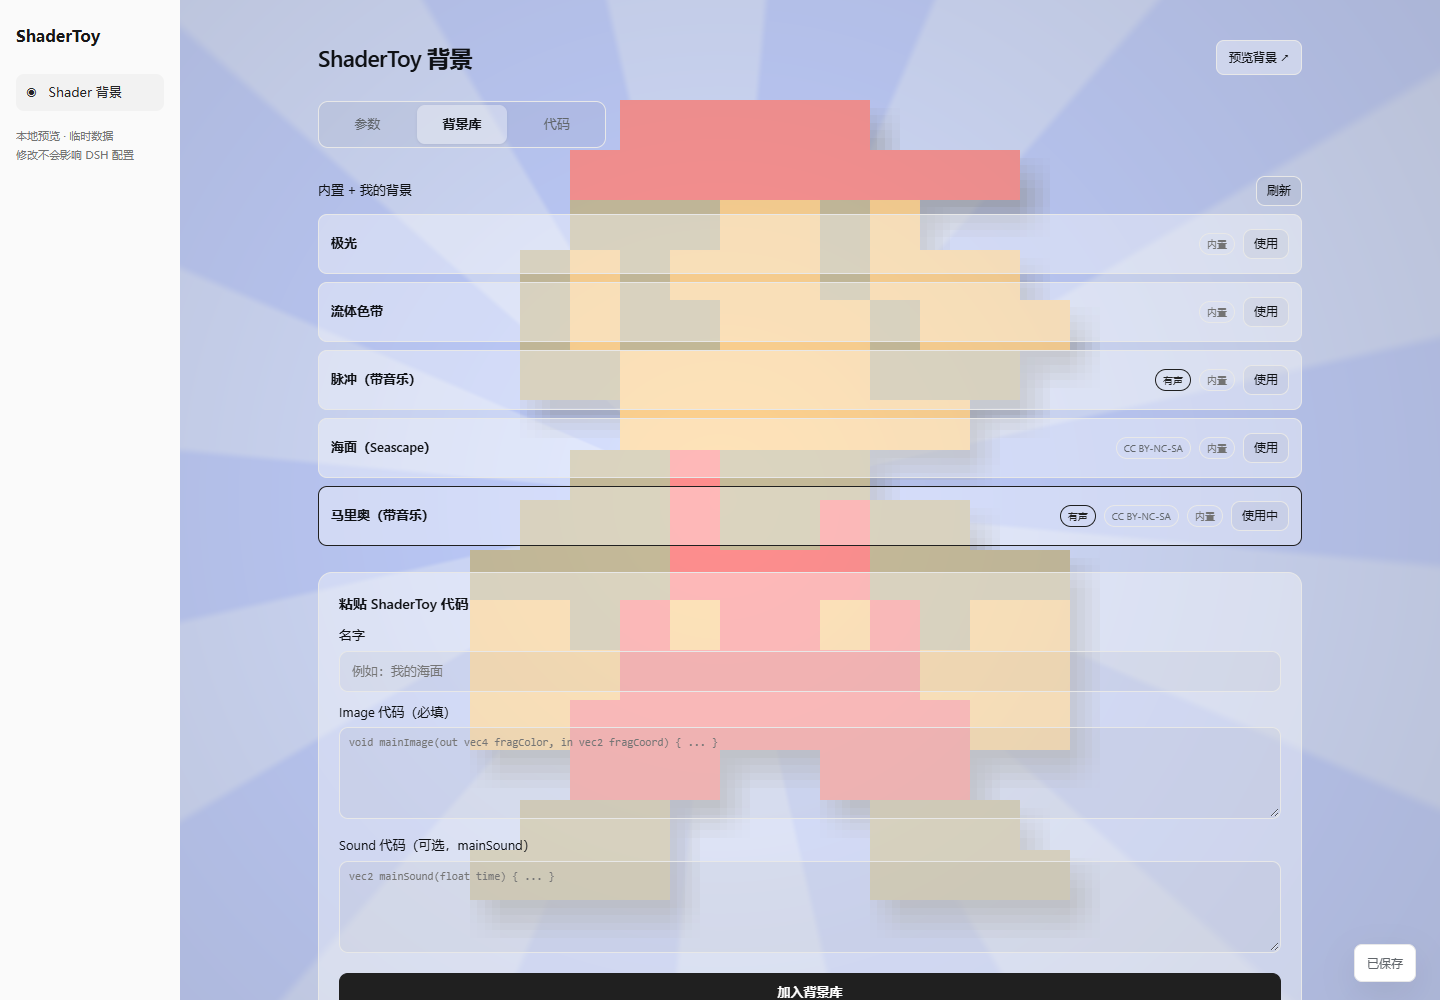
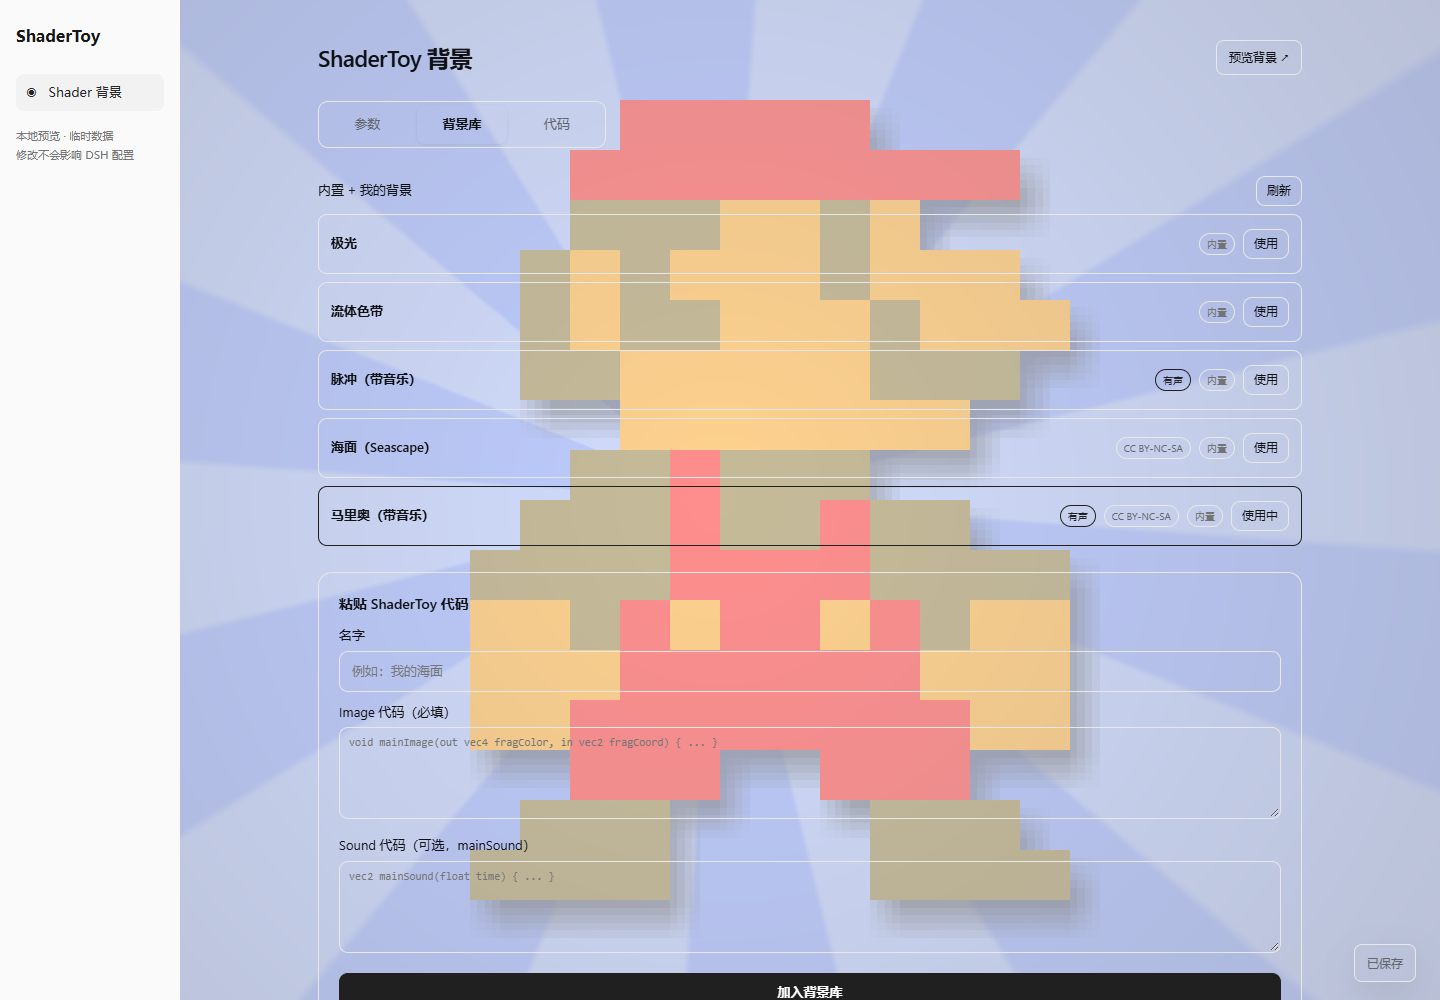
fix: make clear surfaces transparent and link half opacity to settings

diff --git a/client.js b/client.js
@@ -182,9 +182,8 @@ window.__ModuleLoader__.load({
           // So: the shell tokens go FULLY transparent (the shader is the only
           // background), and the single darkening/whitening veil is painted by the
           // player's own tint mix (`tint` + `tintMix`, see `playerLook()`), one
-          // composition layer, whatever the DOM depth. Sliding the glass slider then
-          // only sends a `params` message — it never touches the theme tokens, so it
-          // cannot emit `theme/change` or trigger a restyle storm.
+          // composition layer, whatever the DOM depth. In half mode the same
+          // slider also updates semantic surface fills; the shell stays clear.
           //
           // Deliberately NO `:has()` selectors here. Anchoring the whole `#root` with
           // `:has()` makes Chromium re-evaluate the entire tree on every panel switch;
@@ -197,6 +196,34 @@ window.__ModuleLoader__.load({
           const GLASS_CSS = `html, body { background: transparent !important; }
             [role="dialog"], [role="alertdialog"], [data-shortcut-modal="settings"] {
               background-color: var(--shader-skin-dialog-surface) !important;
+            }
+            /* These component-local fills shadow inherited theme tokens. Keep
+               the outer card's fill, but never stack a second fill in its head. */
+            html[data-shader-skin-panels] [class*="_card"] {
+              --changes-fill: transparent !important;
+              --changes-hover: transparent !important;
+              --plan-card-fill: var(--shader-skin-surface) !important;
+              --plan-card-hover: var(--shader-skin-surface) !important;
+            }
+            html[data-shader-skin-panels] [class*="_root"] {
+              --deliverable-fill: var(--shader-skin-surface) !important;
+              --deliverable-hover: var(--shader-skin-surface) !important;
+            }
+            /* Stable DSH Markdown attributes cover plain, highlighted and card
+               code blocks. Only the wrapper paints, including its sticky head. */
+            html[data-shader-skin-panels] .md-code-block {
+              background: var(--shader-skin-surface) !important;
+              --dsl-code-block-background: transparent !important;
+              --dsl-code-block-banner-background-color: transparent !important;
+            }
+            html[data-shader-skin-panels] .md-code-block [data-code-block-banner],
+            html[data-shader-skin-panels] .md-code-block [data-code-block-content],
+            html[data-shader-skin-panels] .md-code-block pre {
+              background: transparent !important;
+            }
+            /* macOS hardcodes this button's fill instead of using the token. */
+            html[data-shader-skin-panels] button[class*="_newSession"] {
+              background: var(--shader-skin-surface) !important;
             }`
           const CLEAR_TOKENS = {
             '--dsw-alias-bg-base': { light: 'transparent', dark: 'transparent' },
@@ -204,9 +231,7 @@ window.__ModuleLoader__.load({
             '--shader-skin-dialog-surface': { light: '#fff', dark: '#232324' },
           }
           // The boxes that follow the `panels` level: cards, nested panels, code
-          // blocks, the composer/editor surface (`bg-module-platform`) and the
-          // message input (`specific-input-major`). Popovers/menus get a higher
-          // alpha below so they stay readable.
+          // blocks and the composer/editor surface (`bg-module-platform`).
           const LAYER_TOKENS = [
             '--dsw-alias-bg-layer-1', '--dsw-alias-bg-layer-2',
             '--dsw-alias-bg-layer-3', '--dsw-alias-bg-layer-4',
@@ -215,22 +240,23 @@ window.__ModuleLoader__.load({
           const RAISED_TOKENS = [
             '--dsw-alias-bg-overlay', '--dsw-specific-menu', '--dsw-menu-surface-fill',
             '--dsw-alias-menu-group-header-fill', '--dsw-specific-selector',
+            '--dsw-specific-input-major',
+            '--dsw-alias-button-elevated-fill', '--dsw-alias-button-elevated-hover',
+            '--dsw-alias-button-floating-fill', '--dsw-alias-button-floating-hover',
           ]
           /**
            * Semantic content surfaces only. Never override a static palette:
            * the same neutral value may also be used for foreground text/icons.
-           * Each entry is [token, weight] relative to the selected card alpha.
+           * Every surface shares the selected opacity, without hidden floors.
            */
           const CONTENT_TOKENS = [
-            ['--dsw-alias-markdown-code-block', 1],
-            ['--dsw-alias-markdown-code-block-banner', 1],
-            ['--dsw-alias-markdown-inline-code', 0.7],
-            ['--dsw-specific-bubble', 1],
+            '--dsw-alias-markdown-code-block',
+            '--dsw-alias-markdown-code-block-banner',
+            '--dsw-alias-markdown-inline-code',
+            '--dsw-specific-bubble',
           ]
 
           /** `panels` = opaque (leave theme fills) | half | clear. */
-          const PANEL_ALPHA = { half: 0.72, clear: 0.38 }
-
           function ensureGlassStyle() {
             if (document.getElementById(STYLE_ID)) return
             const style = document.createElement('style')
@@ -245,23 +271,11 @@ window.__ModuleLoader__.load({
 
           function glassTokens() {
             const tokens = { ...CLEAR_TOKENS }
-            const selected = PANEL_ALPHA[effective().panels] ?? null
-            if (selected === null) return tokens
-            // Keep primary text readable even with the veil at 20% and a solid
-            // white/black shader. Low glass levels need a stronger card surface.
-            const glass = clamp(effective().glass, 20, 95, 60) / 100
-            const darkestLight = 255 * glass * 0.92
-            const brightestDark = 255 * (1 - glass) + 21 * glass
-            const darkFloor = Math.max(0, (brightestDark - 110) / Math.max(1, brightestDark - 35))
-            const lightFloor = Math.max(0, (140 - darkestLight) / Math.max(1, 255 - darkestLight))
-            const alpha = Math.min(0.96, Math.max(selected, darkFloor, lightFloor))
-            for (const token of LAYER_TOKENS) tokens[token] = rgba('35, 35, 36', alpha)
-            for (const token of RAISED_TOKENS) tokens[token] = rgba('44, 44, 46', 0.97)
-            tokens['--dsw-specific-input-major'] = rgba('44, 44, 46', Math.max(0.85, alpha))
-            for (const [token, weight] of CONTENT_TOKENS) {
-              const floor = token.includes('code-block') ? 0.84 : 0.38
-              tokens[token] = rgba('35, 35, 36', Math.max(floor, alpha * weight))
-            }
+            const params = effective()
+            if (!['half', 'clear'].includes(params.panels)) return tokens
+            const alpha = params.panels === 'clear' ? 0 : clamp(params.glass, 20, 95, 60) / 100
+            for (const token of [...LAYER_TOKENS, ...RAISED_TOKENS, ...CONTENT_TOKENS,
+              '--shader-skin-surface', '--shader-skin-dialog-surface']) tokens[token] = rgba('35, 35, 36', alpha)
             return tokens
           }
 
@@ -281,6 +295,9 @@ window.__ModuleLoader__.load({
           function applyGlass(force = false) {
             if (!booted) return false
             if (effective().enabled === false) { clearGlass(); return false }
+            const mode = effective().panels
+            if (['half', 'clear'].includes(mode)) document.documentElement.dataset.shaderSkinPanels = mode
+            else delete document.documentElement.dataset.shaderSkinPanels
             const theme = service('theme')
             if (theme === undefined) return false
             const tokens = glassTokens()
@@ -300,6 +317,7 @@ window.__ModuleLoader__.load({
             glassDispose = null
             glassSignature = null
             document.getElementById(STYLE_ID)?.remove()
+            delete document.documentElement.dataset.shaderSkinPanels
           }
 
           // ------------------------------------------------------------ parameters

diff --git a/native-dist/panel.html b/native-dist/panel.html
@@ -51,15 +51,14 @@
     --card-fill: rgba(255, 255, 255, var(--panel-alpha));
     --editor-fill: transparent;
     --focus-fill: var(--card-fill);
-    --control-fill: rgba(0, 0, 0, .035);
-    --control-hover-fill: rgba(0, 0, 0, .075);
-    --action-fill: rgba(255, 255, 255, var(--action-alpha));
+    --control-fill: transparent;
+    --control-hover-fill: transparent;
+    --action-fill: var(--card-fill);
+    --pop: rgba(255, 255, 255, var(--panel-alpha));
   }
   html[data-theme="dark"][data-panels="half"], html[data-theme="dark"][data-panels="clear"] {
     --card-fill: rgba(35, 35, 36, var(--panel-alpha));
-    --control-fill: rgba(0, 0, 0, .12);
-    --control-hover-fill: rgba(255, 255, 255, .08);
-    --action-fill: rgba(35, 35, 36, var(--action-alpha));
+    --pop: rgba(35, 35, 36, var(--panel-alpha));
   }
   * { box-sizing: border-box; }
   html, body { margin: 0; padding: 0; background: transparent; overflow: hidden; }
@@ -214,6 +213,7 @@
   body.editor-focus #panel > :not(#view-code),
   body.editor-focus #view-code > :not(.focused),
   body.editor-focus #note { visibility: hidden; }
+  body.editor-focus .panel { background: transparent; border-color: transparent; box-shadow: none; }
   .code-card.focused { position: fixed; inset: 12px; z-index: 100; margin: 0; display: flex; flex-direction: column; background: var(--focus-fill); box-shadow: var(--shadow); }
   .code-card.focused .code-frame { flex: 1; min-height: 0; }
   .code-card.focused .code-area { height: 100% !important; min-height: 0; }
@@ -332,7 +332,7 @@
   .settings-footer { margin-top: 20px; display: flex; gap: 16px; align-items: center; justify-content: space-between; flex-wrap: wrap; }
   .settings-footer .actions { margin: 0; }
   .settings-footer .note { margin: 0; }
-  #note { position: fixed; right: 24px; bottom: 18px; z-index: 60; max-width: min(480px, calc(100vw - 40px)); margin: 0; padding: 8px 12px; border: 1px solid var(--line); border-radius: 8px; color: var(--muted); background: var(--surface); box-shadow: var(--shadow); }
+  #note { position: fixed; right: 24px; bottom: 18px; z-index: 60; max-width: min(480px, calc(100vw - 40px)); margin: 0; padding: 8px 12px; border: 1px solid var(--line); border-radius: 8px; color: var(--muted); background: var(--card-fill); box-shadow: var(--shadow); }
   #note:empty { display: none; }
   #note.error { color: var(--danger); }
   .item { padding: 14px 12px; margin-bottom: 8px; border: 1px solid var(--line); background: var(--card-fill); flex-wrap: wrap; }
@@ -388,7 +388,7 @@
     </div>
 
     <div class="row">
-      <div class="head"><label for="glass">玻璃不透明度</label><output id="glass-out"></output></div>
+      <div class="head"><label for="glass">界面不透明度</label><output id="glass-out"></output></div>
       <input type="range" id="glass" min="20" max="95" step="1">
     </div>
 
@@ -909,17 +909,9 @@
   function syncPanelSurfaces(p) {
     const root = document.documentElement
     root.dataset.panels = p.enabled !== false && ['half', 'clear'].includes(p.panels) ? p.panels : 'opaque'
-    // Match client.js glassTokens(): a minimum fill protects text on extreme
-    // shaders when the global veil is low, in both DSH themes.
-    const selected = p.panels === 'half' ? 0.72 : 0.38
-    const glass = clamp(p.glass, 20, 95, 60) / 100
-    const darkestLight = 255 * glass * 0.92
-    const brightestDark = 255 * (1 - glass) + 21 * glass
-    const darkFloor = Math.max(0, (brightestDark - 110) / Math.max(1, brightestDark - 35))
-    const lightFloor = Math.max(0, (140 - darkestLight) / Math.max(1, 255 - darkestLight))
-    const alpha = Math.min(0.96, Math.max(selected, darkFloor, lightFloor))
+    // Match client.js glassTokens(): clear is zero fill, half follows the slider.
+    const alpha = p.panels === 'clear' ? 0 : clamp(p.glass, 20, 95, 60) / 100
     root.style.setProperty('--panel-alpha', String(alpha))
-    root.style.setProperty('--action-alpha', String(Math.max(0.85, alpha)))
     applyTheme()
   }
 

diff --git a/docs/full-audit-2026-10-27.md b/docs/full-audit-2026-10-27.md
@@ -13,12 +13,12 @@
 | 表面 | 半透明 / 透明档的策略 |
 |---|---|
 | 主界面外壳 | 背景与遮罩合成一次，避免多层遮罩把画面压黑 |
-| 普通卡片 | 基础不透明度分别为 72% / 38%；低遮罩时根据最亮/最暗背景提高安全下限 |
-| 聊天输入框 | 至少 85% 不透明 |
-| Markdown 代码块 | 至少 84% 不透明 |
-| 菜单、选择器、分组菜单头 | 97% 不透明，保留清楚的文字与边界 |
-| 设置、确认等关键对话框 | 100% 不透明；实机发现 98% 仍有背后文字重影后进一步调整 |
-| 插件自身设置页、背景库、代码工作区与专注编辑 | 跟随不透明 / 半透明 / 透明选择；沿用普通卡片的安全下限，代码框内部不重复叠加底色，底部操作栏至少 85% 不透明 |
+| 普通卡片、交付物、计划卡片 | 半透明为 `glass / 100`；透明为 0，取消此前的最低底色 |
+| 新会话按钮、聊天输入框 | 同一不透明度，不再保留纯白或 85% 底色 |
+| Markdown 代码块 | 外框使用同一不透明度；顶部栏、正文和高亮 `pre` 清除重复底色，避免叠加 |
+| 行内代码、消息气泡 | 同一不透明度，保留前景颜色与边框 |
+| 菜单、选择器、对话框 | 同一不透明度，移除固定 97% / 100% 底色 |
+| 插件自身设置页、背景库、代码工作区与专注编辑 | 同一不透明度；内部字段不重复叠加，操作栏也跟随当前档位；专注时隐藏后方界面文字 |
 
 只覆盖语义背景 token，不再覆盖静态中性色板。静态色板也会被原生文字、图标使用，全局改写它可能把前景文字一起变透明。原生遮罩与语义颜色保持各自职责。
 
@@ -33,7 +33,7 @@
 | P1 | 全局改写静态中性色，可能影响前景文字/图标 | 删除静态色板覆盖，仅修改语义表面 |
 | P2 | 背景关闭后启动/调参仍可能重新透明化原生界面 | 关闭状态统一清除样式与 token；后续调参也不重加 |
 | P2 | 深浅模式切换时播放器保留上一主题遮罩 | 主题变化同步发送当前主题的实际 tint 参数；验证 GPU uniform |
-| P2 | 透明档的菜单底色过淡、浅色对话框透出背后代码 | 菜单提高到 97%；关键对话框完全不透明 |
+| P2 | 透明档仍有较高底色，新会话按钮与代码块顶部栏未统一 | 按最新要求取消各类最低底色，透明为 0，半透明跟随滑块；只在代码块外框绘制一次底色 |
 | P2 | 未保存代码只在内存中，刷新会丢失 | 当前浏览会话用 sessionStorage 恢复草稿，显式放弃时清除 |
 | P2 | 保存代码期间切换作品，迟到结果可能作用于错误作品 | 保存结果检查当前作品与已加载编辑对象，避免错误应用 |
 | P2 | 自有 JSON 的 Sound 字段、Image/Sound 混合 GLSL 导入时丢音频 | 两种格式均保留声音；错误 Sound 不再静默丢弃 |
@@ -64,11 +64,19 @@
 
 测试前备份：`C:/Users/HUAWEI/.dsh/shader-skin/backups/codex-native-ui-20261027/shader-skin.json`。测试后恢复原配置并比较 SHA-256 一致；主题恢复“跟随系统”。实验代码保持安装，个人背景库、当前作品与参数保持测试前内容。
 
-## 后续值得做的功能与验证
+## 透明度统一整改
+
+最新分支 `codex/unified-transparency` 覆盖此前的保底底色策略。依据本机 DSH 组件源码补齐新会话按钮的 elevated/floating 背景变量，修复组件局部 `--changes-fill`、`--deliverable-fill`、`--plan-card-fill` 对主题值的遮蔽，以及 Markdown 外框、顶部栏、高亮正文重复填充。透明档没有隐藏的最低不透明度；半透明档与界面不透明度滑块直接对应。
+
+新增 `npm run test:transparency`：18 组深浅主题、三档、三个滑块值的源码结构夹具检查，覆盖按钮、代码块、输入框、行内代码、变更卡片、交付物、计划卡片、菜单；检查关闭背景后恢复原生样式。截图见 [unified-transparency](verify/unified-transparency/)。
+
+## 代码编辑高度与设置页修复
 
 补充修复（`codex/panel-transparency`）：设置页自身现在跟随透明度选择，专注编辑隐藏后方界面，避免透出重叠文字；Image / Sound 默认同为 360 px，旧高度记录将 Sound 迁移为 Image 当前高度，此后独立记忆。修复另一个相关问题：收起某个代码框后调整另一个，不再把收起框的高度错误保存为 0。
 
 新增 `npm run test:surfaces`，覆盖六种主题/透明度组合、实际 iframe 合成像素、代码框单层底色、两种专注编辑、操作栏、背景关闭回退、旧高度迁移、独立高度恢复和窄屏。截图见 [panel-surfaces](verify/panel-surfaces/)。本轮同时重新通过 `npm test`、`test:ui`、`test:panel` 和 `test:audit`。
+
+## 后续值得做的功能与验证
 
 1. Buffer A–D、多 pass、纹理/键盘/音频输入尚不支持，当前会拒绝对应导入。下一阶段应先实现资源图和依赖检查。
 2. 背景库可增加导出/恢复、缩略图、搜索与排序；当前本地配置备份有利于恢复，但缺少产品内的备份入口。

diff --git a/README.md b/README.md
@@ -109,9 +109,9 @@ $DSH_HOME/shader-skin/presets/        （Windows 默认 C:\Users\<你>\.dsh\shad
 | 参数 | 默认 | 可选 | 说明 |
 |---|---|---|---|
 | `enabled` | `true` | 开/关 | 关掉只移除背景层，设置页仍在 |
-| `glass` | `60` (%) | 20–95 | 玻璃不透明度：界面压住背景的程度。越高文字越清晰、背景越淡；越低背景越透亮 |
+| `glass` | `60` (%) | 20–95 | 界面不透明度：控制背景滤镜；半透明档下也直接决定卡片、输入框、代码块、菜单等表面的不透明度 |
 | `brightness` | `100` (%) | 30–180 | 背景亮度（着色器输出乘数）。黄昏、夜景类作品看着太暗就调高 |
-| `panels` | `opaque` | opaque / half / clear | 卡片、代码块、弹层、**聊天输入框**、编辑器表面的底色：不透明 / 半透明 / 透明。想让背景从框里透出来就调它 |
+| `panels` | `opaque` | opaque / half / clear | 不透明保留原生底色；半透明使用 `glass / 100`；透明移除表面底色（alpha 为 0）。新会话按钮、代码块顶部栏、输入框和插件设置页遵循同一规则 |
 | `blur` | `0` px | 0–12 | 只在 > 0 时启用 CSS `filter` |
 | `scale` | `1`× | 0.25 / 0.35 / 0.4 / 0.5 / 0.6 / 0.75 / 1 / 1.25 / 1.5 / 1.75 / 2 | 渲染分辨率倍率（DPR 上限 1.5）。下拉里**直接写实际分辨率**，例如 `1280 × 810（1×）`、`320 × 203（0.25×）`，窗口变大后这些数字会跟着刷新；显卡弱/想省电选 0.25–0.5×，追求锐利选 1.5–2× |
 | `fps` | `30` | 15 / 20 / 30 / 60 | 渲染帧率上限；聊天时 30 足够 |
@@ -120,7 +120,7 @@ $DSH_HOME/shader-skin/presets/        （Windows 默认 C:\Users\<你>\.dsh\shad
 | `audioMode` / `audioSeconds` | `loop` / `60` s | loop / once · 10–600 s | **音乐播放方式**：ShaderToy 的曲子是有长度的（播完就静音），所以 `loop` = 每到「音乐时长」就把音乐时间轴归零重放（接缝有 40 ms 淡入淡出）；`once` = 放完「音乐时长」就停、**画面继续常驻**（马里奥这种静态图 + 一首歌正合适） |
 | `volume` / `muted` | `60` / `false` | 0–100 / 开/关 | 带 `mainSound` 的作品默认出声；浏览器可能拦截自动播放，点一下界面任意位置即可解锁 |
 
-> 两个滑块的分工：**玻璃不透明度**控制「界面压暗多少」，**背景亮度**控制「画面本身多亮」。前者影响可读性，后者只影响画面。背景看着黑，先加亮度；文字看着花，再加玻璃。
+> **界面不透明度**控制背景滤镜和半透明表面的底色浓度，**背景亮度**控制画面本身的亮度。透明档始终移除表面底色；滑块仍可调整其下方背景的滤镜。
 
 ## 状态
 
